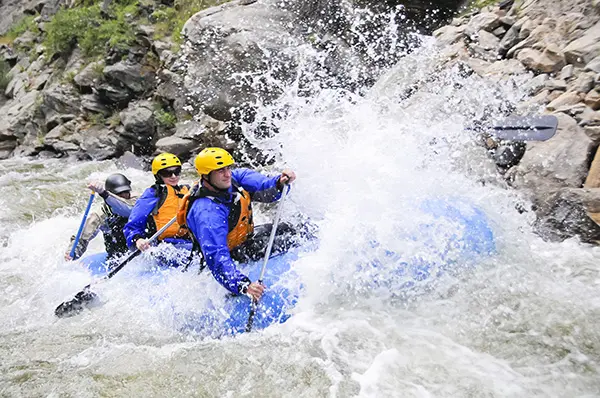
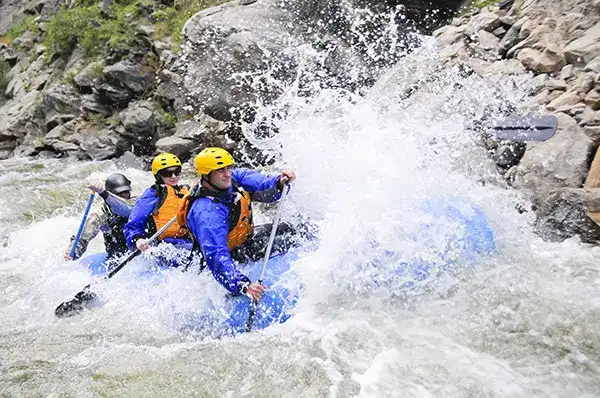
Added optimized image

diff --git a/wwr/index.html b/wwr/index.html
@@ -37,7 +37,7 @@
 
         <div class="cards">
             <figure>
-                <img src="images/purpose1.jpg" alt="Purpose 1">
+                <img src="images/purpose1.webp" alt="Purpose 1">
                 <figcaption>🏞 Rivers</figcaption>
             </figure>
             <figure>
@@ -45,7 +45,7 @@
                 <figcaption>🔥 Camping</figcaption>
             </figure>
             <figure>
-                <img src="images/purpose3.jpg" alt="Purpose 1">
+                <img src="images/purpose3.webp" alt="Purpose 1">
                 <figcaption>🚤 Rapids</figcaption>
             </figure>
         </div>
